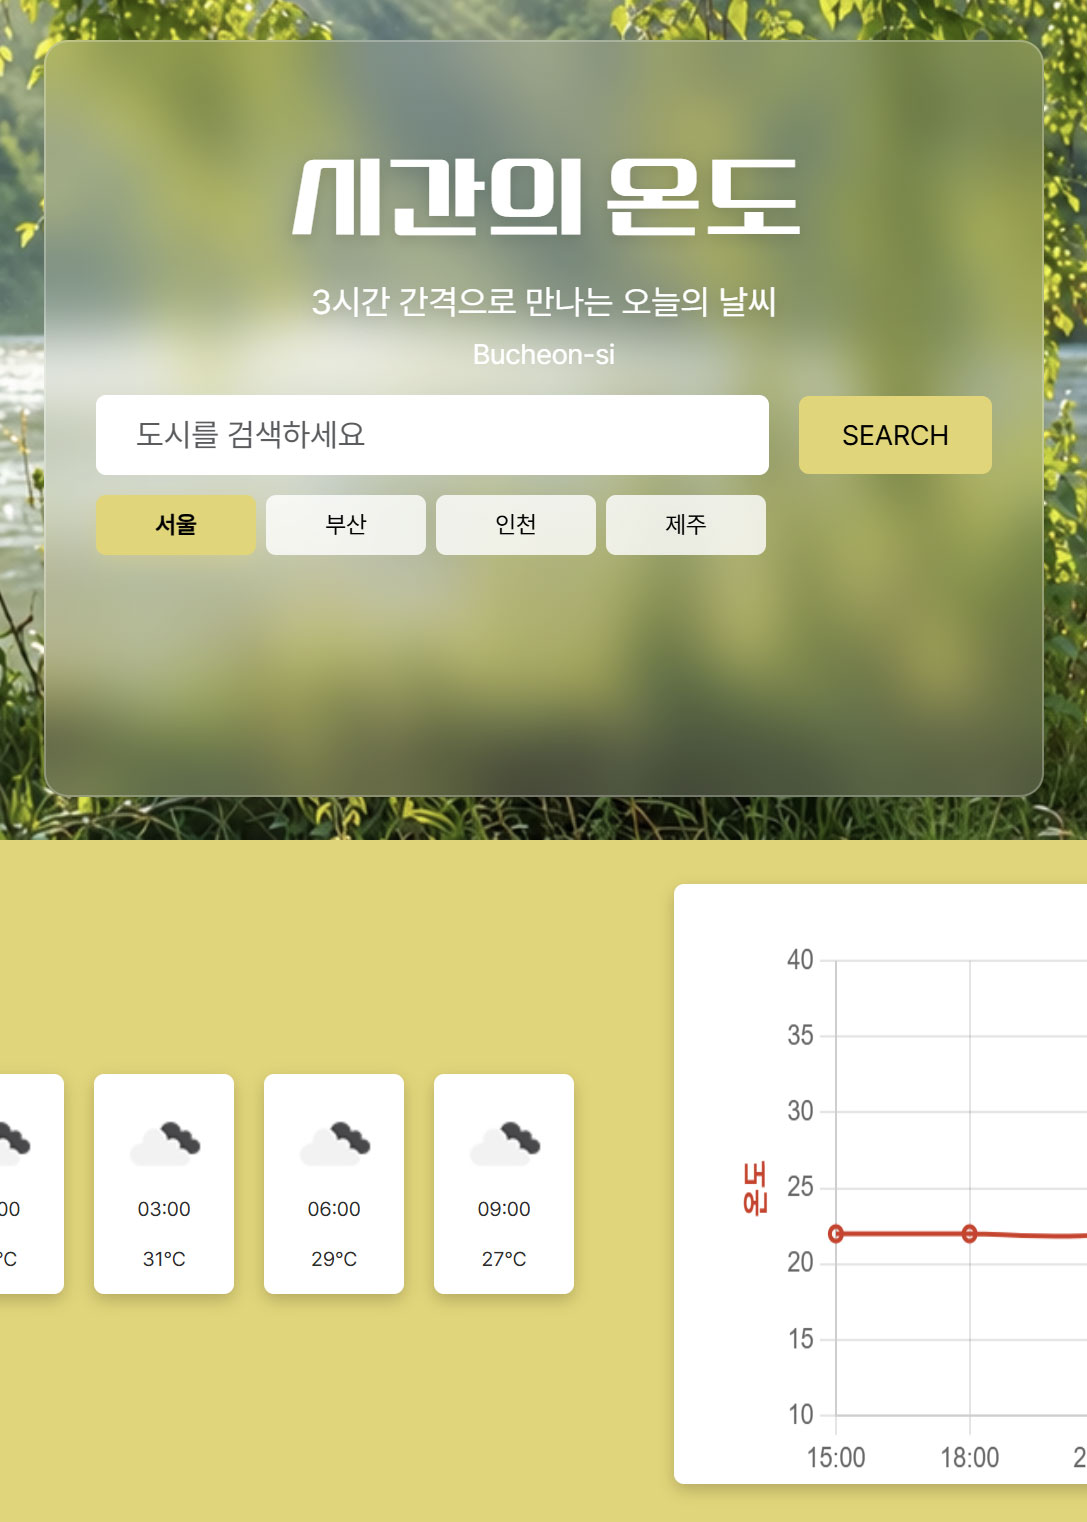
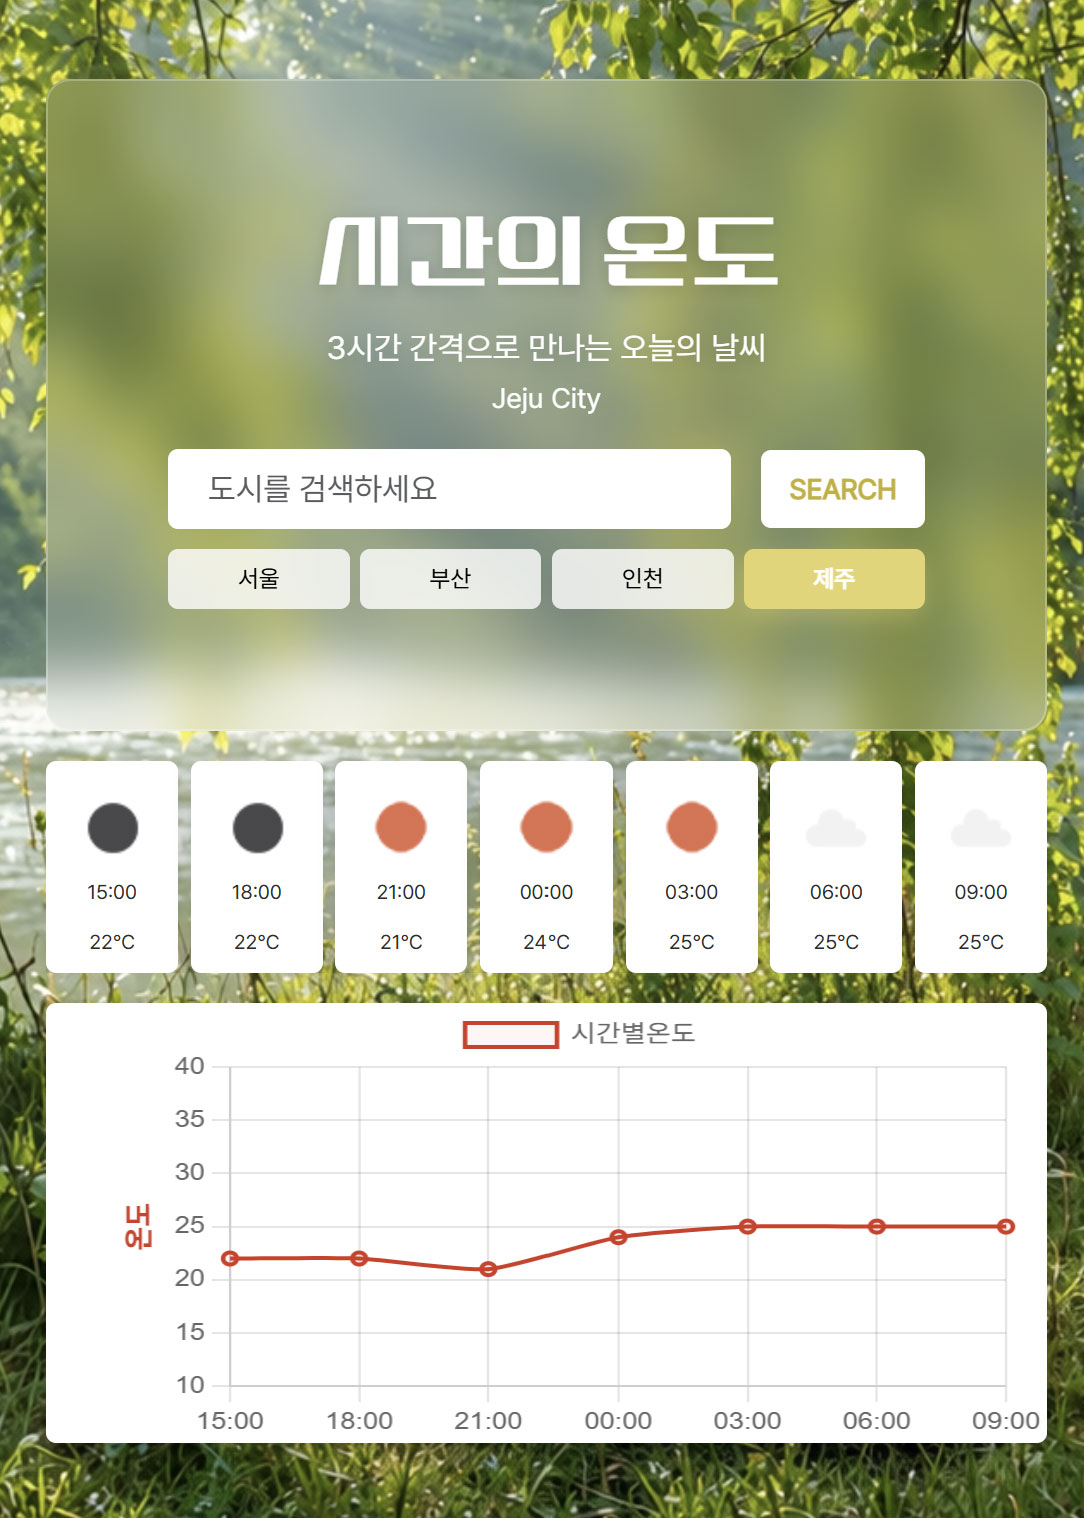
자바스크립트 섹션 수정

diff --git a/index.html b/index.html
@@ -321,22 +321,22 @@
               </div>
               <ul class="img-wrap">
                 <li>
-                  <a href="https://thgml53193.github.io/cafedesign/"
+                  <a href="https://thgml53193.github.io/foundationdesign/"
                     ><img src="img/foundation_mac.png" alt=""
                   /></a>
                 </li>
                 <li>
-                  <a href="https://thgml53193.github.io/cafedesign/"
+                  <a href="https://thgml53193.github.io/foundationdesign/"
                     ><img src="img/foundation_book.png" alt=""
                   /></a>
                 </li>
                 <li>
-                  <a href="https://thgml53193.github.io/cafedesign/"
+                  <a href="https://thgml53193.github.io/foundationdesign/"
                     ><img src="img/foundation_t.png" alt=""
                   /></a>
                 </li>
                 <li>
-                  <a href="https://thgml53193.github.io/cafedesign/"
+                  <a href="https://thgml53193.github.io/foundationdesign/"
                     ><img src="img/foundation_p.png" alt=""
                   /></a>
                 </li>
@@ -437,12 +437,6 @@
         </div>
       </div>
       <ul class="play-item">
-        <li class="number-bg">
-          <a
-            href="https://thgml53193.github.io/weather-search"
-            data-hover="OpenWeather API 기반 &#10; 실시간 날씨 & 차트 시각화 앱 ↗"
-          ></a>
-        </li>
         <li class="weather-bg">
           <a
             href="https://thgml53193.github.io/weather-search"

diff --git a/index.css b/index.css
@@ -690,11 +690,11 @@ section {
 }
 /* play-item */
 #playground .play-item {
-  width: 80%;
-  height: fit-content;
+  width: 70%;
   display: flex;
+  justify-content: center;
   align-items: center;
-  gap: 2rem;
+  gap: 6rem;
   position: absolute;
   margin: auto;
   top: 0;
@@ -706,8 +706,8 @@ section {
   pointer-events: none;
 }
 #playground .play-item li {
-  width: calc((100% - 4rem) / 3);
-  aspect-ratio: 5 / 7;
+  width: 450px;
+  height: 650px;
   border-radius: 2rem;
   box-shadow: 0 20px 40px rgba(0, 0, 0, 0.2);
   background-repeat: no-repeat;